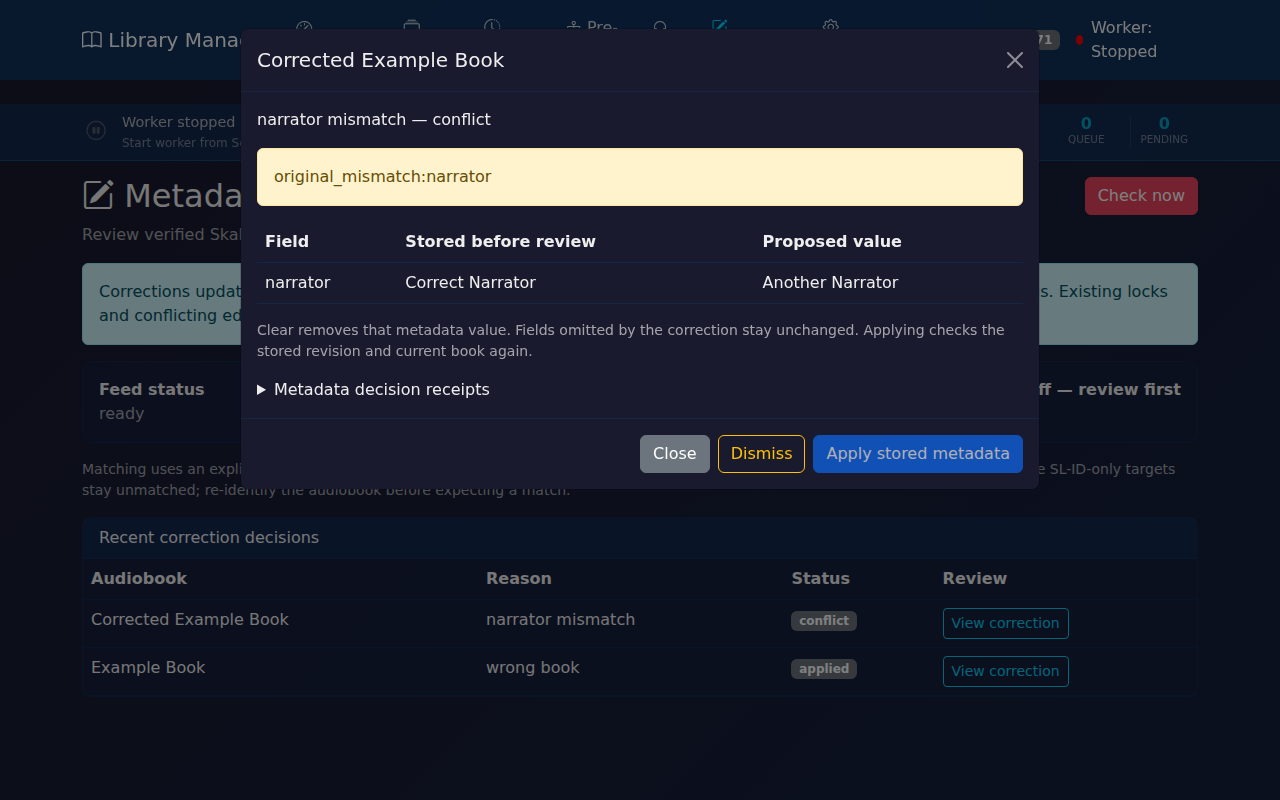
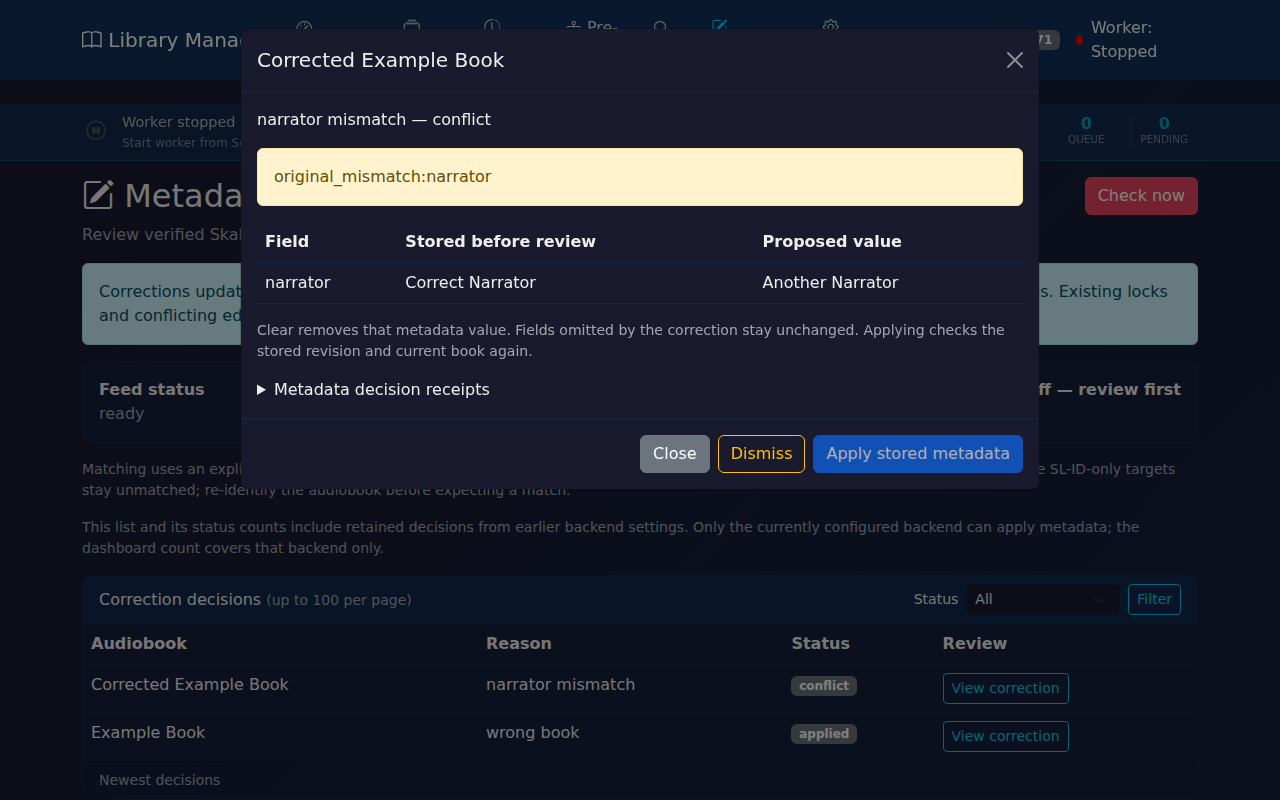
fix: keep older correction reviews reachable (#205)

diff --git a/templates/corrections.html b/templates/corrections.html
@@ -20,18 +20,34 @@
 </div></div>
 <div id="corrections-message" role="status" class="alert d-none"></div>
 <p class="small text-muted">Matching uses an explicit canonical Skaldleita book ID from the same configured backend. Legacy profiles, hash-only targets and opaque SL-ID-only targets stay unmatched; re-identify the audiobook before expecting a match.</p>
+<p class="small text-muted">This list and its status counts include retained decisions from earlier backend settings. Only the currently configured backend can apply metadata; the dashboard count covers that backend only.</p>
 {% if feed.bootstrap_required %}
 <div class="alert alert-warning"><strong>Feed reset needs reconciliation.</strong> Old decisions and receipts are retained. Review them before restarting from all retained events; nothing is automatically discarded.
   <button id="reset-corrections" class="btn btn-outline-warning ms-2" {% if not config.receive_corrections %}disabled{% endif %}>Review feed restart</button>
 </div>
 {% endif %}
-<div class="card"><div class="card-header">Recent correction decisions</div>
+<div class="card"><div class="card-header d-flex align-items-center justify-content-between flex-wrap gap-2">
+  <span>Correction decisions <small class="text-muted">(up to 100 per page)</small></span>
+  <form method="get" action="/corrections" class="d-flex align-items-center gap-2">
+    <label for="correction-status" class="small">Status</label>
+    <select id="correction-status" name="status" class="form-select form-select-sm" aria-label="Filter correction status">
+      {% for status in ['all','pending','conflict','unmatched','applied','dismissed','superseded'] %}
+      <option value="{{ status }}" {% if selected_status == status %}selected{% endif %}>{{ status|capitalize }}{% if status != 'all' %} ({{ counts.get(status, 0) }}){% endif %}</option>
+      {% endfor %}
+    </select>
+    <button class="btn btn-sm btn-outline-info" type="submit">Filter</button>
+  </form>
+</div>
 <div class="table-responsive"><table class="table table-hover mb-0"><thead><tr><th>Audiobook</th><th>Reason</th><th>Status</th><th>Review</th></tr></thead><tbody>
 {% for decision in decisions %}
 <tr><td>{{ decision.title or 'Unmatched audiobook' }}</td><td>{{ (decision.reason or '')|replace('_',' ') }}</td><td><span class="badge bg-secondary">{{ decision.status }}</span></td>
 <td><button class="btn btn-sm btn-outline-info correction-review" data-id="{{ decision.id }}">View correction</button></td></tr>
-{% else %}<tr><td colspan="4" class="text-muted py-4 text-center">No corrections received. Unmatched events are kept for later identification; no book is guessed.</td></tr>{% endfor %}
-</tbody></table></div></div>
+{% else %}<tr><td colspan="4" class="text-muted py-4 text-center">No decisions on this page for the selected status. Unmatched events are retained; no book is guessed.</td></tr>{% endfor %}
+</tbody></table></div>
+<nav class="card-footer d-flex justify-content-between" aria-label="Correction pages">
+  {% if before_id %}<a id="corrections-newest" class="btn btn-sm btn-outline-secondary" href="{{ url_for('corrections.review', status=selected_status) }}">Newest decisions</a>{% else %}<span class="small text-muted">Newest decisions</span>{% endif %}
+  {% if decision_page.has_more %}<a id="corrections-older" class="btn btn-sm btn-outline-info" href="{{ url_for('corrections.review', status=selected_status, before_id=decision_page.next_before_id) }}">Older decisions</a>{% endif %}
+</nav></div>
 <div class="modal fade" id="correction-modal" tabindex="-1" aria-labelledby="correction-title" aria-hidden="true"><div class="modal-dialog modal-lg modal-dialog-scrollable"><div class="modal-content">
 <div class="modal-header"><h5 class="modal-title" id="correction-title">Review correction</h5><button class="btn-close btn-close-white" data-bs-dismiss="modal" aria-label="Close"></button></div>
 <div class="modal-body"><p id="correction-reason"></p><div id="correction-conflicts" class="alert alert-warning d-none"></div>

diff --git a/test-env/test-corrections-application.py b/test-env/test-corrections-application.py
@@ -105,6 +105,69 @@ class ApplicationTests(unittest.TestCase):
         self.assertEqual(len(detail["receipts"]), 1)
         self.assertFalse(self.app.apply(decision["id"], 1)["success"])
 
+    def test_auto_apply_has_no_active_outer_transaction(self):
+        self.ingest(self.event(after={"narrator": "Middle Narrator"}))
+        opened = []
+        original_apply = self.app.apply
+        calls = []
+
+        def tracked_connect():
+            conn = self.connect()
+            opened.append(conn)
+            return conn
+
+        def checked_apply(*args, **kwargs):
+            for conn in opened:
+                try:
+                    self.assertFalse(conn.in_transaction)
+                except sqlite3.ProgrammingError:
+                    pass  # Earlier application connections are already closed.
+            calls.append(args[0])
+            return original_apply(*args, **kwargs)
+
+        self.app.get_db = tracked_connect
+        self.app.apply = checked_apply
+        self.settings["auto_apply_corrections"] = True
+        self.ingest(self.event(2, before={"narrator": "Middle Narrator"},
+                               after={"narrator": "Final Narrator"}))
+        self.assertEqual(len(calls), 2)  # Durable retry, then newly recorded event.
+        self.assertEqual(self.book()["decoded"]["narrator"]["value"], "Final Narrator")
+
+    def test_decision_pages_reach_older_pending_without_duplicates(self):
+        conn = self.connect()
+        expected = checkpoint(conn, SOURCE)
+        events = tuple(self.event(i) for i in range(1, 106))
+        ingest_page(conn, expected, CorrectionPage(events, "many-decisions", False),
+                    validator=validate_event, now=1, next_poll_at=2)
+        conn.close()
+        self.app.reconcile(SOURCE)
+        self.app.reconcile(SOURCE)
+        newest = self.app.list_decisions()[0]
+        self.assertTrue(self.app.dismiss(newest["id"], newest["revision"])["success"])
+        first = self.app.decision_page(status="pending")
+        self.assertEqual(len(first["items"]), 100)
+        self.assertTrue(first["has_more"])
+        self.assertEqual(first["status_counts"], {"pending": 104, "dismissed": 1})
+        # A new arrival between reads must not shift the older page boundary.
+        self.ingest(self.event(106))
+        second = self.app.decision_page(status="pending", before_id=first["next_before_id"])
+        self.assertEqual(len(second["items"]), 4)
+        self.assertFalse(second["has_more"])
+        self.assertIsNone(second["next_before_id"])
+        ids = [item["id"] for item in first["items"] + second["items"]]
+        self.assertEqual(len(set(ids)), 104)
+        self.assertIn(1, ids)
+        self.assertNotIn(newest["id"], ids)
+        self.assertEqual(self.app.list_decisions(status="dismissed")[0]["id"], newest["id"])
+        # Historical-source decisions remain visible, unlike the active-source dashboard.
+        self.settings["bookdb_url"] = "https://other.example.test"
+        self.assertEqual(self.app.decision_page()["status_counts"], {"pending": 105, "dismissed": 1})
+        self.assertEqual(self.app.summary()["pending"], 0)
+        for kwargs in ({"status": "unknown"}, {"status": []}, {"before_id": 0},
+                       {"before_id": True}, {"before_id": "1"}, {"before_id": 2**63}, {"limit": True}):
+            with self.assertRaises(ValueError):
+                self.app.decision_page(**kwargs)
+
     def test_auto_apply_requires_explicit_optin(self):
         self.settings["auto_apply_corrections"] = True
         decision = self.ingest(self.event())

diff --git a/test-env/test-corrections-browser.py b/test-env/test-corrections-browser.py
@@ -202,8 +202,39 @@ def main():
                     assert replay['prior_decision_id'] == decision['id']
                     assert replay['receipts'] == application.detail(decision['id'])['receipts']
                     checks.append('identical identity-changing replay after reset preserves the prior applied decision and original receipt')
-                    page.set_viewport_size({'width': 390, 'height': 844})
+                    # A normal retained backlog must not hide an older pending review.
+                    conn = app.get_db()
+                    conn.execute("UPDATE correction_decisions SET status='pending' WHERE id=?", (decision['id'],))
+                    for number in range(101):
+                        conn.execute('''INSERT INTO correction_decisions
+                            (source,generation,event_id,reconciliation_key,book_id,event_json,snapshot_json,status,conflicts_json)
+                            SELECT source,generation,?,reconciliation_key,book_id,event_json,snapshot_json,'dismissed',conflicts_json
+                            FROM correction_decisions WHERE id=?''', ('backlog-' + str(number), decision['id']))
+                    conn.commit()
+                    conn.close()
                     page.goto(url + '/corrections', wait_until='networkidle')
+                    assert page.locator('.correction-review').count() == 100
+                    assert page.locator(f'.correction-review[data-id="{decision["id"]}"]').count() == 0
+                    page.locator('#corrections-older').click()
+                    page.wait_for_load_state('networkidle')
+                    page.locator(f'.correction-review[data-id="{decision["id"]}"]').click()
+                    page.locator('#correction-modal.show').wait_for()
+                    assert 'pending' in page.locator('#correction-reason').inner_text()
+                    page.locator('#correction-modal .modal-footer [data-bs-dismiss]').click()
+                    page.wait_for_timeout(300)
+                    page.screenshot(path=str(artifacts / 'corrections-pagination.png'))
+                    page.locator('#corrections-newest').click()
+                    page.wait_for_load_state('networkidle')
+                    page.locator('#correction-status').select_option('pending')
+                    with page.expect_navigation(wait_until='networkidle'):
+                        page.get_by_role('button', name='Filter', exact=True).click()
+                    assert page.locator('.correction-review').count() == 1
+                    assert page.locator('#correction-status option:checked').inner_text() == 'Pending (1)'
+                    assert page.locator(f'.correction-review[data-id="{decision["id"]}"]').count() == 1
+                    page.screenshot(path=str(artifacts / 'corrections-filtered-review.png'))
+                    checks.append('older pending decision stays reachable beyond100 newer rows; newest navigation and status filter preserve accurate total')
+                    page.set_viewport_size({'width': 390, 'height': 844})
+                    page.goto(url + '/corrections?status=pending', wait_until='networkidle')
                     assert page.evaluate('document.documentElement.scrollWidth <= window.innerWidth')
                     page.screenshot(path=str(artifacts / 'corrections-phone.png'), full_page=True)
                     checks.append('390px review page has no horizontal page overflow')

diff --git a/library_manager/corrections/application.py b/library_manager/corrections/application.py
@@ -18,6 +18,7 @@ FIELDS = {
 }
 IDENTITY_FIELDS = {"skaldleita_book_id", "sl_id", "asin"}
 TERMINAL = {"applied", "dismissed", "superseded"}
+DECISION_STATUSES = TERMINAL | {"pending", "conflict", "unmatched"}
 AUTO_ONLY = {"missing_original", "identity_change", "identity_reason", "multiple_local_matches"}
 SCHEMA = (
     """CREATE TABLE IF NOT EXISTS correction_decisions (
@@ -298,6 +299,9 @@ class CorrectionsApplication:
             events = list_events(conn, active, after_rowid=progress[0] if progress else 0, limit=100)
             # Retry a durable pending decision after a callback/process failure.
             # Apply's original/snapshot/lock checks still protect intervening edits.
+            # Rows are materialized and no write transaction is active here.
+            # Apply deliberately owns a fresh transaction; the per-event calls
+            # below likewise run only after the recording transaction commits.
             if config.get("auto_apply_corrections", False) is True:
                 for row in _rows(conn, "SELECT id,revision FROM correction_decisions WHERE source=? AND status='pending' ORDER BY id LIMIT 100", (active,)):
                     self.apply(row["id"], row["revision"], explicit=False)
@@ -359,16 +363,28 @@ class CorrectionsApplication:
         finally:
             conn.close()
 
-    def list_decisions(self, status="all", limit=100):
-        if not isinstance(limit, int) or not 1 <= limit <= 1000:
+    def decision_page(self, status="all", limit=100, before_id=None):
+        if type(limit) is not int or not 1 <= limit <= 1000:
             raise ValueError("invalid_limit")
+        if not isinstance(status, str) or status not in DECISION_STATUSES | {"all"}:
+            raise ValueError("invalid_status")
+        if before_id is not None and (type(before_id) is not int or not 1 <= before_id <= 9223372036854775807):
+            raise ValueError("invalid_before_id")
         conn = self.get_db()
         try:
             rows = _rows(conn, """SELECT * FROM correction_decisions
-                WHERE (?='all' OR status=?) ORDER BY id DESC LIMIT ?""", (status, status, limit))
-            return [self._detail(conn, row) for row in rows]
+                WHERE (?='all' OR status=?) AND (? IS NULL OR id<?)
+                ORDER BY id DESC LIMIT ?""", (status, status, before_id, before_id, limit + 1))
+            has_more = len(rows) > limit
+            items = [self._detail(conn, row) for row in rows[:limit]]
+            return {"items": items, "has_more": has_more, "status": status,
+                    "status_counts": dict(conn.execute("SELECT status,COUNT(*) FROM correction_decisions GROUP BY status")),
+                    "next_before_id": items[-1]["id"] if has_more else None}
         finally:
             conn.close()
+
+    def list_decisions(self, status="all", limit=100, before_id=None):
+        return self.decision_page(status, limit, before_id)["items"]
 
     def list_pending(self):
         return [row for row in self.list_decisions(limit=1000) if row["status"] not in TERMINAL]

diff --git a/test-env/test-corrections-routes.py b/test-env/test-corrections-routes.py
@@ -3,7 +3,7 @@
 from pathlib import Path
 import sys
 import unittest
-from unittest.mock import Mock
+from unittest.mock import Mock, patch
 
 from flask import Flask
 
@@ -24,6 +24,23 @@ class RoutesTests(unittest.TestCase):
     def test_summary_uses_exact_count(self):
         response = self.client.get('/api/corrections/summary')
         self.assertEqual(response.json['pending'], 1201)
+
+    def test_review_pagination_rejects_invalid_query(self):
+        for query in ('status=unknown', 'before_id=0', 'before_id=-1', 'before_id=1.2',
+                      'before_id=true', 'before_id=', 'before_id=999999999999999999999'):
+            response = self.client.get('/corrections?' + query)
+            self.assertEqual(response.status_code, 400)
+            self.assertFalse(response.json['success'])
+        self.application.decision_page.assert_not_called()
+
+    def test_review_passes_bounded_keyset_and_status(self):
+        self.application.decision_page.return_value = {'items': [], 'has_more': False, 'next_before_id': None,
+                                                     'status_counts': {'pending': 1201}}
+        with patch('library_manager.corrections.routes.render_template', return_value='review') as render:
+            self.assertEqual(self.client.get('/corrections?status=pending&before_id=123').status_code, 200)
+        self.application.decision_page.assert_called_once_with(status='pending', limit=100, before_id=123)
+        self.assertEqual(render.call_args.kwargs['selected_status'], 'pending')
+        self.assertEqual(render.call_args.kwargs['counts']['pending'], 1201)
 
     def test_decision_requires_revision(self):
         for value in ({}, {'expected_revision': True}, {'expected_revision': -1}, []):

diff --git a/library_manager/corrections/routes.py b/library_manager/corrections/routes.py
@@ -9,9 +9,19 @@ def register_corrections_routes(app, components, load_config):
 
     @routes.get('/corrections')
     def review():
+        status = request.args.get('status', 'all')
+        if status not in ('all', 'pending', 'conflict', 'unmatched', 'applied', 'dismissed', 'superseded'):
+            return jsonify(success=False, error='Unknown correction status.'), 400
+        raw_cursor = request.args.get('before_id')
+        if raw_cursor is not None and (not raw_cursor.isascii() or not raw_cursor.isdecimal() or len(raw_cursor) > 18 or int(raw_cursor) < 1):
+            return jsonify(success=False, error='Invalid correction page cursor.'), 400
+        before_id = int(raw_cursor) if raw_cursor is not None else None
         service, application = components()
+        decision_page = application.decision_page(status=status, limit=100, before_id=before_id)
         return render_template('corrections.html', config=load_config(),
-                               feed=service.summary(), decisions=application.list_decisions())
+                               feed=service.summary(), decisions=decision_page['items'],
+                               decision_page=decision_page, selected_status=status, before_id=before_id,
+                               counts=decision_page['status_counts'])
 
     @routes.get('/api/corrections/summary')
     def summary():

diff --git a/test-env/test-corrections-service.py b/test-env/test-corrections-service.py
@@ -135,11 +135,24 @@ class ServiceTests(unittest.TestCase):
         self.assertEqual(self.fetcher.call_args.kwargs['cursor'], 'first-snapshot')
 
     def test_callback_failure_keeps_page_for_later_durable_reconciliation(self):
+        connections = []
+
+        def tracked_db():
+            conn = self.db()
+            connections.append(conn)
+            return conn
+
         def callback(source):
             if self.events():
                 raise RuntimeError('local processing fixture failure')
+        self.service.get_db = tracked_db
         self.service.on_ingested = callback
         self.assertEqual(self.service.poll_once()['error'], 'processing_unavailable')
+        self.assertEqual(len(connections), 1)
+        with self.assertRaises(sqlite3.ProgrammingError):
+            connections[0].execute('SELECT 1')
+        self.assertIsNone(self.state().lease_owner)
+        self.assertEqual(self.state().lease_expires, 0)
         self.assertEqual(self.state().cursor, fixture_page().next_cursor)
         self.assertEqual(len(self.events()), 1)
         self.now += 300

diff --git a/docs/Configuration.md b/docs/Configuration.md
@@ -202,7 +202,10 @@ is required; an older server reporting feature unavailable is not an empty feed.
 The dashboard links to the **Corrections** page when decisions await review.
 Use **Check now** for a bounded background check; authentication and quota
 cooldowns still apply. Review shows the reason, stored/proposed metadata,
-conflicts, and decision receipts. Application changes the stored LM metadata
+conflicts, and decision receipts. Status filters show total counts;
+**Older decisions** and **Newest decisions**
+navigate bounded 100-decision pages so older pending reviews remain reachable.
+Application changes the stored LM metadata
 only: it does not rename folders, move media, or write tags. Use ordinary
 organizer workflows separately for file changes. User locks, stale prior values,
 and conflicting matches are protected; identity replacements require explicit
@@ -225,6 +228,8 @@ and the pinned backend contract fixture, not a production corrections rollout.
 
 ![Corrections opt-in settings](images/corrections-settings.png)
 ![Corrections review list](images/corrections-review.png)
+![Older correction decisions remain reachable](images/corrections-pagination.png)
+![Pending status filter with total count](images/corrections-filtered-review.png)
 ![Explicit identity correction review](images/corrections-identity-review.png)
 ![Applied metadata receipt](images/corrections-receipt.png)
 ![Conflicting correction remains blocked](images/corrections-conflict.png)

diff --git a/CHANGELOG.md b/CHANGELOG.md
@@ -9,7 +9,8 @@ All notable changes to Library Manager will be documented in this file.
   with the configured provider endpoint as their namespace.
 - Opt-in Skaldleita metadata corrections (#205): startup/daily polling, durable
   checkpoints, dashboard count, review and explicit metadata application with
-  decision receipts. Receiving and safe automatic application default off.
+  decision receipts, status filters and bounded older/newest review pages.
+  Receiving and safe automatic application default off.
   Corrections change stored LM metadata only, never files or audio tags; locks,
   stale metadata and identity conflicts remain protected. Requires a compatible
   deployed corrections feed; coordinated release/live acceptance is pending.
